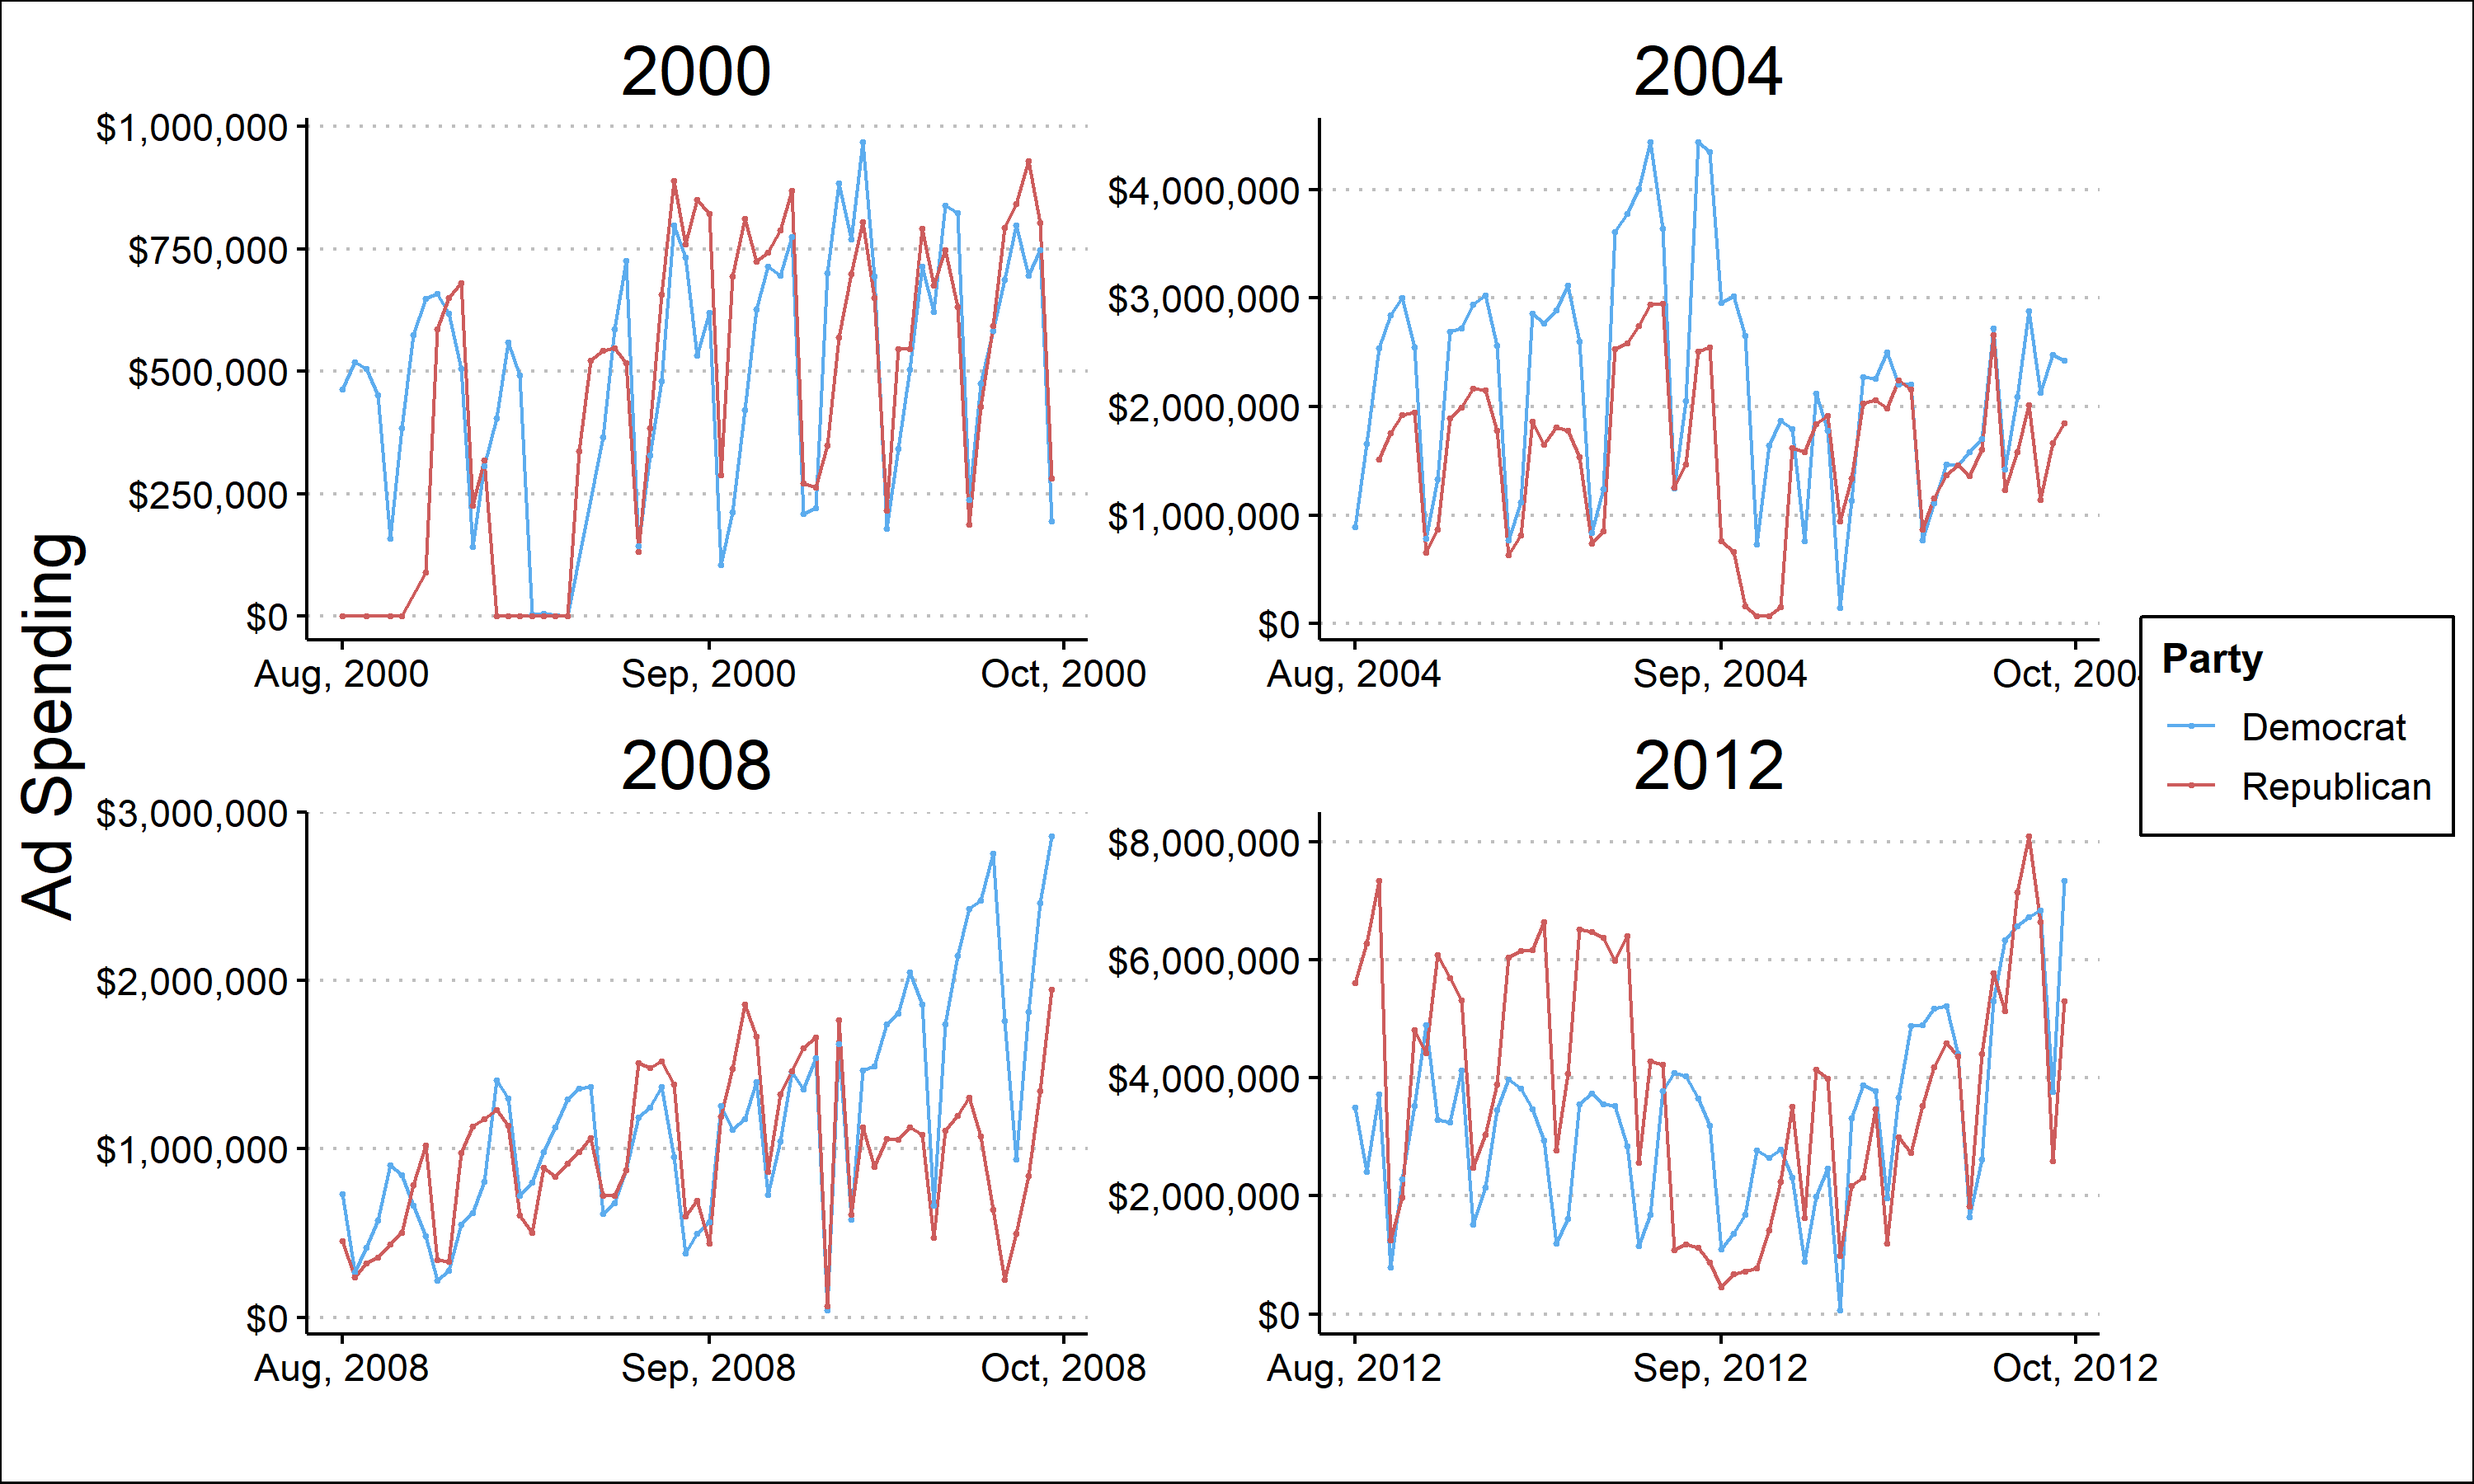
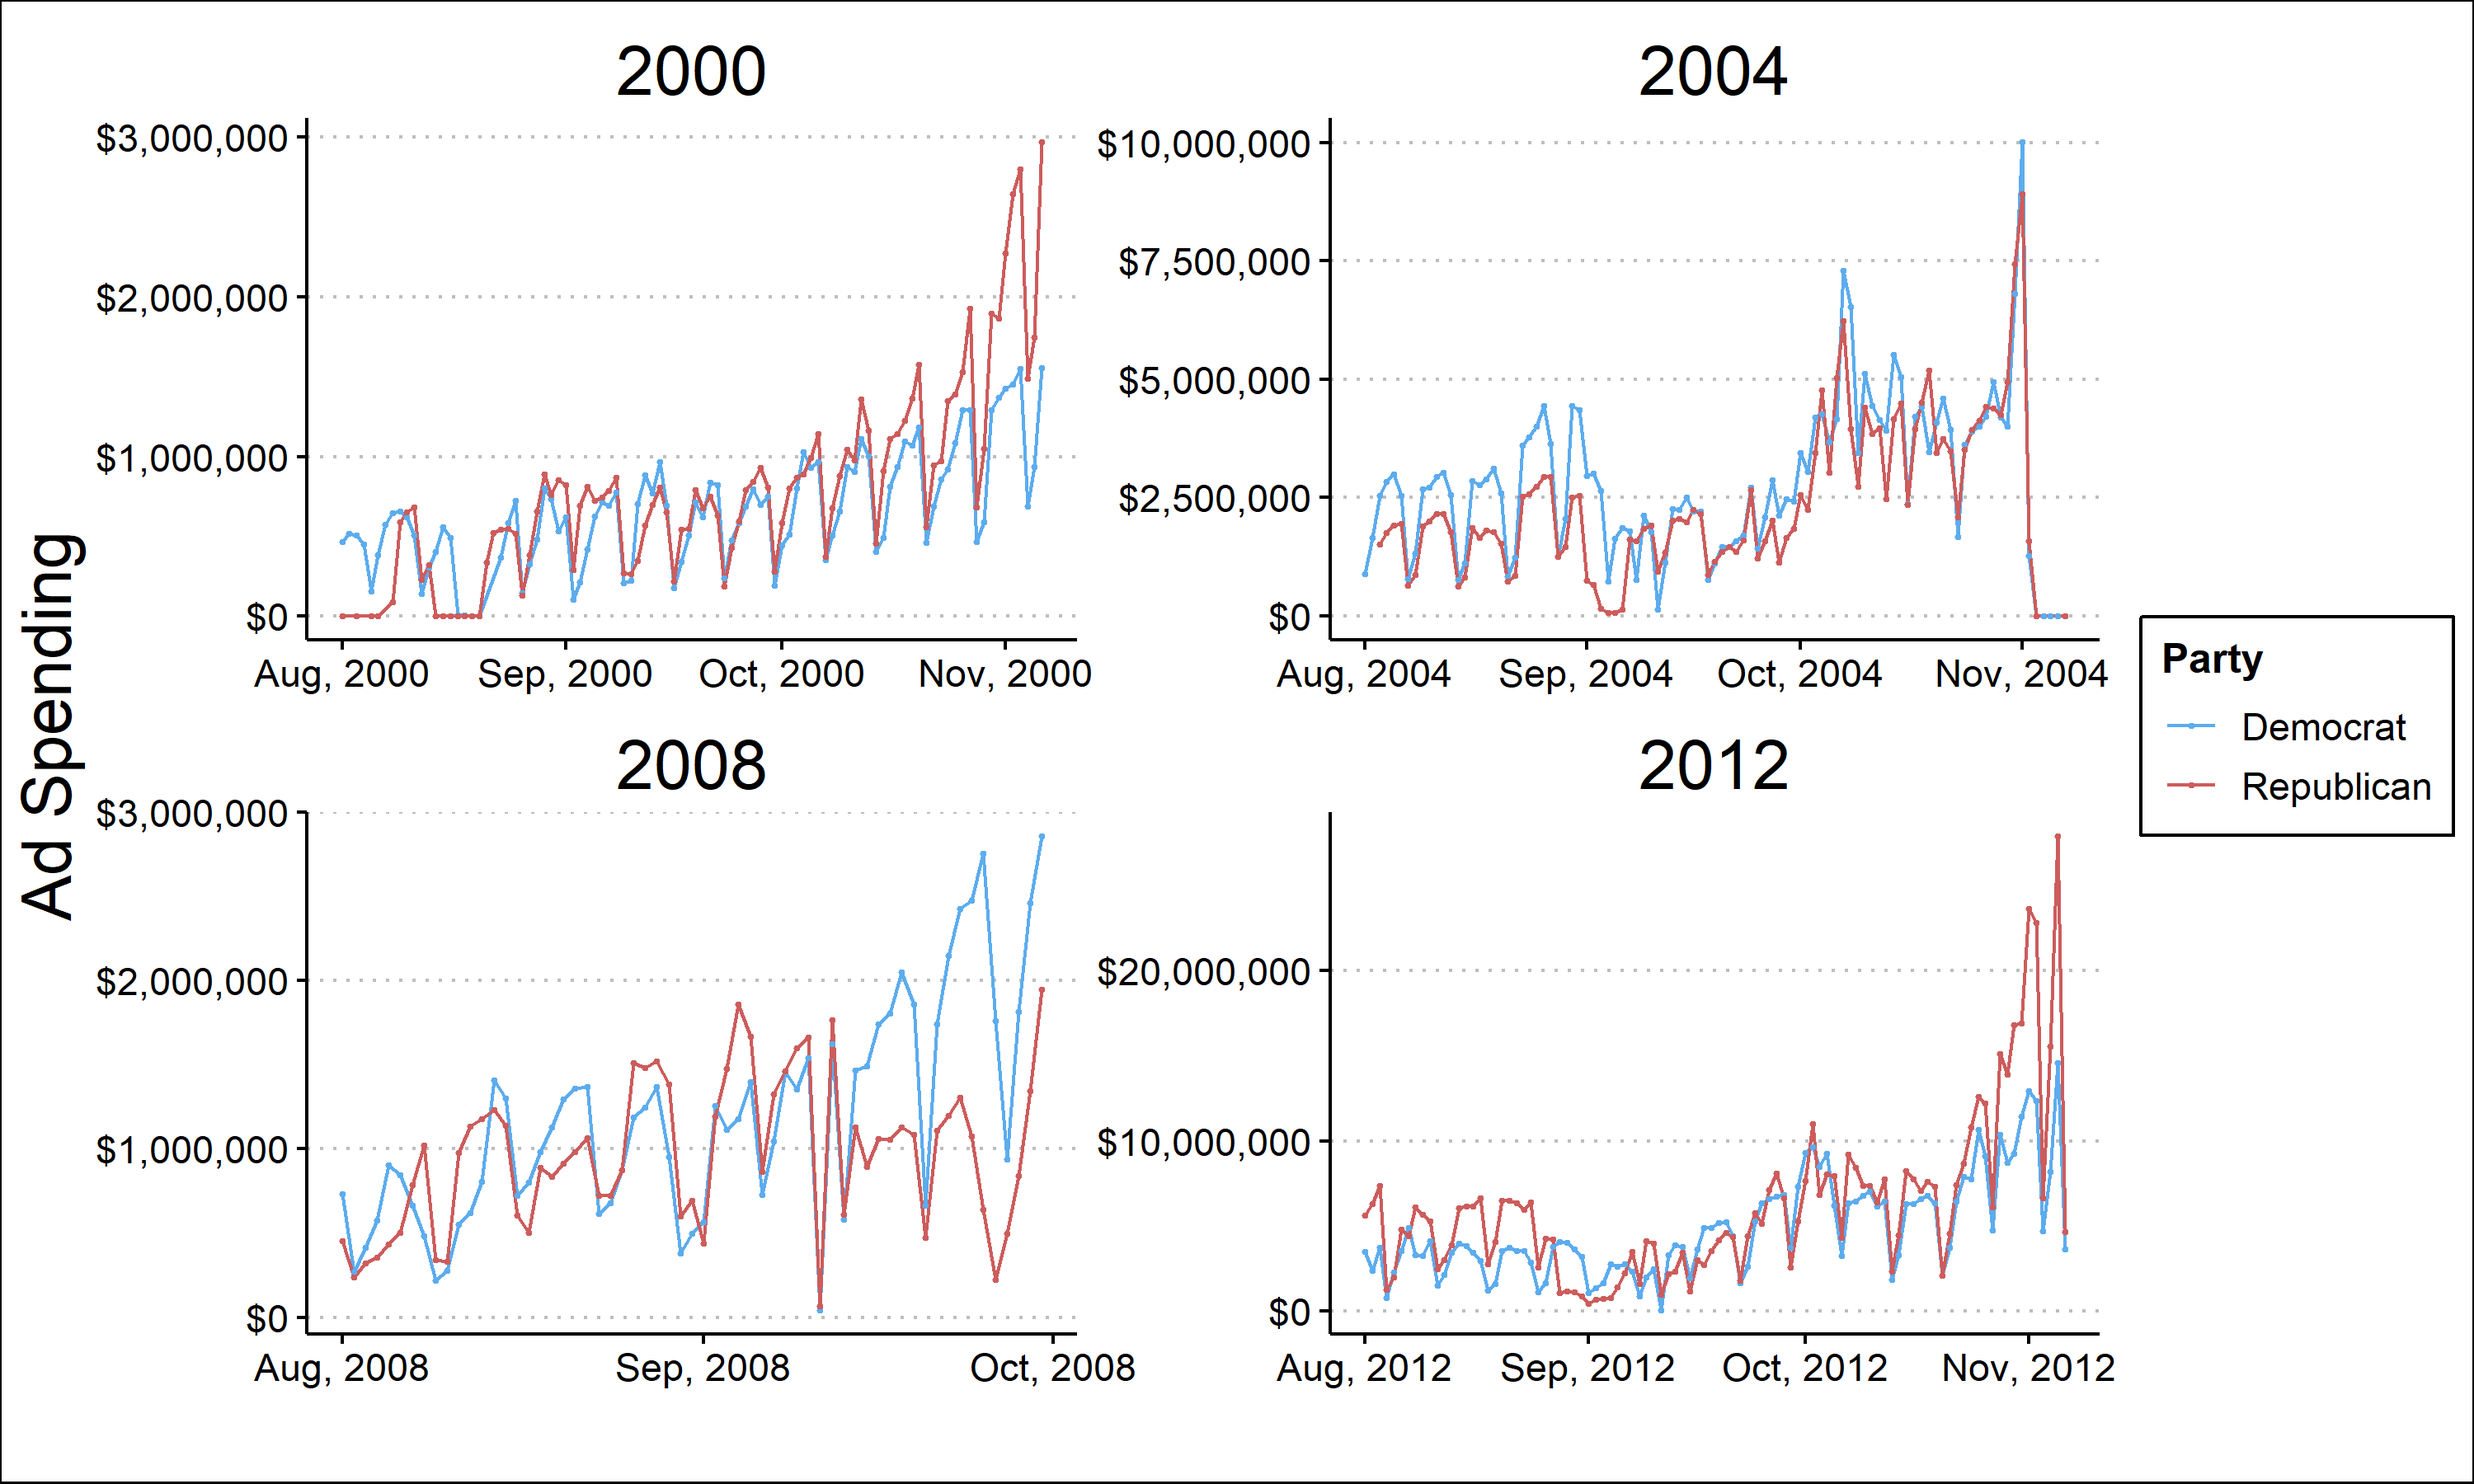
Commit of new outline

diff --git a/_posts/2020-10-11-Advertising.md b/_posts/2020-10-11-Advertising.md
@@ -3,11 +3,17 @@ layout: post
 title: Advertising - Oct. 5, 2020
 ---
 
-In this week's blog post I will examine the most public facing aspect of an election, the campaigns themselves. One factor of a campaign that voters interact with frequently is advertisements. In 2016, each party spent hundreds of millions of dollars on advertising. I will explore how effective that campaign spending (and other campaign's) was, what the best time to spend money on ads is, and then examine campaign advertising in 2020. 
+In this week's blog post I will examine the most public facing aspect of an election, the campaigns themselves. One factor of a campaign that voters interact with frequently is advertisements. Politicians and their parties care immensely about advertisements, going so far as to spend hundreds of millions of dollars on advertising each election cycle. In this blog I will explore **if campaign spending can be used to predict election outcomes, what the best time to spend money on ads is, and then use campaign advertising in a model to predict the 2020 election outcome.** 
 
-![picture](../images/advertising spending_bar.png)
+## Advertisement Spending
+
+In every presidential election from 2000 to 2004 both parties spent large sums of money on advertising. This spending varied drastically by state and time, giving some clue that **campaigns strategically invest in advertisements.** Research from Alan Gerber and Gregory Huber confirms this prediction and gives evidence that **political advertising can in fact have a persuasive effect on voters.** Knowing this, I will explore how much campaigns have been spending 
 
 ![picture](../images/advertising spending_time.png)
+
+From these graphs it is clear that campaigns tend to spend more as the election gets closer. **Spending in October appears to be significantly higher than earlier months.** 
+
+say something about why you chose these months
 
 Graph of campaign spending by election 
 
